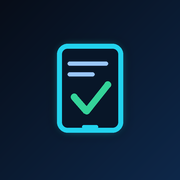
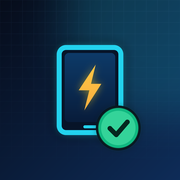
新 App 圖示、App 內安裝按鈕（v1.4）
Claude-Session: https://claude.ai/code/session_0117J48jJgWqVKsLGmjRoydJ

diff --git a/index.html b/index.html
@@ -51,13 +51,13 @@ header{
   border-bottom:1px solid var(--line);
   display:flex;align-items:center;gap:12px;
 }
-.logo{width:36px;height:36px;border-radius:10px;flex:none;
+.logo{width:40px;height:40px;border-radius:11px;flex:none;object-fit:cover;
   background:linear-gradient(135deg,#0e7490,#1d4ed8);display:grid;place-items:center;
   box-shadow:0 0 0 1px rgba(34,211,238,.35),0 0 18px rgba(34,211,238,.25)}
 .logo svg{width:22px;height:22px}
 .htitle{flex:1;min-width:0}
 .htitle h1{margin:0;font-size:19.5px;font-weight:700;letter-spacing:.02em}
-.htitle .sub{font-family:var(--mono);font-size:12.5px;color:var(--accent);letter-spacing:.14em;text-transform:uppercase}
+.htitle .sub{font-family:var(--mono);font-size:12.5px;color:var(--accent);letter-spacing:.08em;text-transform:uppercase;white-space:nowrap;overflow:hidden;text-overflow:ellipsis}
 .hclock{font-family:var(--mono);font-size:14px;color:var(--muted);text-align:right;line-height:1.3}
 
 main{position:relative;z-index:1;padding:14px 16px calc(var(--nav-h) + env(safe-area-inset-bottom) + 96px);max-width:720px;margin:0 auto}
@@ -249,6 +249,17 @@ nav button.on::before{content:"";position:absolute;top:0;width:28px;height:3px;b
 .grid2{display:grid;grid-template-columns:1fr 1fr;gap:10px}
 .note-s{font-size:14.5px;color:var(--dim);margin-top:8px;line-height:1.6}
 
+/* install card */
+.inst{display:none;align-items:center;gap:12px;padding:12px 14px;margin-bottom:12px;border-radius:var(--r);
+  border:1px solid rgba(34,211,238,.55);background:linear-gradient(135deg,rgba(8,145,178,.22),rgba(37,99,235,.18));box-shadow:0 0 18px rgba(34,211,238,.15)}
+.inst.show{display:flex}
+.inst img{width:46px;height:46px;border-radius:12px;flex:none}
+.inst .tx{flex:1;min-width:0}
+.inst .tx b{display:block;font-size:17px}
+.inst .tx span{font-size:14px;color:var(--muted)}
+.inst .x{background:none;border:0;color:var(--dim);font-size:22px;padding:0 2px;line-height:1}
+.howto{margin:0;padding-left:22px;font-size:15.5px;line-height:1.9;color:var(--text)}
+.howto b{color:var(--accent)}
 /* toast + dialog */
 .toast{position:fixed;left:50%;bottom:calc(var(--nav-h) + env(safe-area-inset-bottom) + 84px);transform:translate(-50%,20px);z-index:60;
   background:#e6f0ff;color:#071226;padding:10px 16px;border-radius:12px;font-size:16px;font-weight:600;opacity:0;pointer-events:none;transition:.2s;max-width:88vw;text-align:center;box-shadow:0 10px 30px rgba(0,0,0,.4)}
@@ -264,9 +275,7 @@ nav button.on::before{content:"";position:absolute;top:0;width:28px;height:3px;b
 <body>
 
 <header>
-  <div class="logo" aria-hidden="true">
-    <svg viewBox="0 0 24 24" fill="none" stroke="#e0fbff" stroke-width="1.8" stroke-linecap="round" stroke-linejoin="round"><rect x="5" y="2.5" width="14" height="19" rx="2.5"/><path d="M9 12.5l2.2 2.2L15.5 10"/><path d="M11 18.5h2"/></svg>
-  </div>
+  <img class="logo" src="icon-192.png" alt="" aria-hidden="true">
   <div class="htitle">
     <h1>資訊車平板檢修記錄</h1>
     <div class="sub">Tablet · Inspection · Log</div>
@@ -277,6 +286,7 @@ nav button.on::before{content:"";position:absolute;top:0;width:28px;height:3px;b
 <main>
   <!-- ===== 檢修 ===== -->
   <section class="view active" id="v-inspect">
+    <div class="inst" id="instCard"><img src="icon-192.png" alt=""><div class="tx"><b id="instT">安裝到手機主畫面</b><span id="instS">像一般 App 一樣開啟，沒網路也能用</span></div><button class="btn primary sm" id="instBtn">安裝</button><button class="x" id="instX" aria-label="隱藏">×</button></div>
     <div class="panel">
       <div class="panel-h">檢查設定</div>
       <label class="f" for="inDate">日期</label>
@@ -331,6 +341,7 @@ nav button.on::before{content:"";position:absolute;top:0;width:28px;height:3px;b
     <div class="panel">
       <div class="panel-h">資料管理</div>
       <div id="dataInfo"></div>
+      <button class="btn w100" id="btnInstall2" style="margin-top:12px">安裝到手機主畫面</button>
       <div class="grid2" style="margin-top:12px">
         <button class="btn" id="btnBackup">備份資料</button>
         <button class="btn" id="btnRestore">還原備份</button>
@@ -339,7 +350,7 @@ nav button.on::before{content:"";position:absolute;top:0;width:28px;height:3px;b
       <button class="btn danger w100" id="btnWipe" style="margin-top:10px">清除全部資料</button>
       <div class="note-s">資料只存在這支手機的這個 App 裡。建議每學期按「備份資料」存一份到雲端硬碟；換手機時用「還原備份」匯回。</div>
     </div>
-    <div style="text-align:center;font-family:var(--mono);font-size:12.5px;color:var(--dim);letter-spacing:.1em">TABLET·CHECK v1.3</div>
+    <div style="text-align:center;font-family:var(--mono);font-size:12.5px;color:var(--dim);letter-spacing:.1em">TABLET·CHECK v1.4</div>
   </section>
 </main>
 
@@ -416,11 +427,12 @@ const findRec = id => records.find(r=>r.id===id);
 /* ================= toast / dialog ================= */
 let toastT;
 function toast(msg){ const t=$("#toast"); t.textContent=msg; t.classList.add("show"); clearTimeout(toastT); toastT=setTimeout(()=>t.classList.remove("show"),2200); }
-function confirmBox(title,msg,yes="確定",danger=false){
+function confirmBox(title,msg,yes="確定",danger=false,noCancel=false){
   return new Promise(res=>{
     $("#dlgT").textContent=title; $("#dlgP").textContent=msg;
     const y=$("#dlgYes"), n=$("#dlgNo");
     y.textContent=yes; y.className = "btn " + (danger?"danger":"primary");
+    n.style.display = noCancel ? "none" : "";
     $("#dlg").classList.add("show");
     const done=v=>{ $("#dlg").classList.remove("show"); y.onclick=n.onclick=null; res(v); };
     y.onclick=()=>done(true); n.onclick=()=>done(false);
@@ -915,6 +927,48 @@ function go(v){
 }
 document.querySelector("nav").addEventListener("click",e=>{ const b=e.target.closest("button"); if(b){ buzz(); go(b.dataset.v); } });
 window.addEventListener("beforeunload",e=>{ if(ed.dirty){ saveDraft(); } });
+
+/* ================= install to home screen ================= */
+let deferredPrompt=null;
+const isStandalone=()=>matchMedia("(display-mode: standalone)").matches||navigator.standalone===true;
+const ua=navigator.userAgent;
+const inAppBrowser=/Line\/|FBAN|FBAV|Instagram|; wv\)|MicroMessenger/i.test(ua);
+const isIOS=/iPhone|iPad|iPod/.test(ua);
+function showInstallCard(force){
+  const c=$("#instCard");
+  $("#btnInstall2").style.display = isStandalone() ? "none" : "";
+  if(isStandalone()){ c.classList.remove("show"); return; }
+  let hidden=false; try{ hidden=localStorage.getItem("tic.instHide")==="1"; }catch(e){}
+  if(hidden && !force) return;
+  if(inAppBrowser){ $("#instT").textContent="請改用 Chrome 開啟"; $("#instS").textContent="這個瀏覽器無法安裝 App"; $("#instBtn").textContent="複製網址"; }
+  else if(deferredPrompt){ $("#instT").textContent="安裝到手機主畫面"; $("#instS").textContent="像一般 App 一樣開啟，沒網路也能用"; $("#instBtn").textContent="安裝"; }
+  else { $("#instT").textContent="安裝到手機主畫面"; $("#instS").textContent="按「怎麼裝」看步驟"; $("#instBtn").textContent="怎麼裝"; }
+  c.classList.add("show");
+}
+async function doInstall(){
+  if(inAppBrowser){
+    try{ await navigator.clipboard.writeText(location.href.split("?")[0]); toast("已複製網址，請貼到 Chrome 開啟"); }
+    catch(e){ toast(location.href.split("?")[0]); }
+    return;
+  }
+  if(deferredPrompt){
+    deferredPrompt.prompt();
+    const r=await deferredPrompt.userChoice; deferredPrompt=null;
+    if(r.outcome==="accepted"){ $("#instCard").classList.remove("show"); toast("安裝中，完成後主畫面會出現「平板檢修」"); }
+    else showInstallCard(true);
+    return;
+  }
+  const steps = isIOS
+    ? "1. 用 Safari 開啟這個網頁\n2. 按下方的「分享」按鈕\n3. 選「加入主畫面」→「新增」"
+    : "1. 確認是用 Chrome 開啟\n2. 按右上角「⋮」選單\n3. 選「安裝應用程式」或「加到主畫面」\n4. 按「安裝」";
+  await confirmBox("安裝到手機主畫面",steps,"知道了",false,true);
+}
+window.addEventListener("beforeinstallprompt",e=>{ e.preventDefault(); deferredPrompt=e; showInstallCard(); });
+window.addEventListener("appinstalled",()=>{ deferredPrompt=null; $("#instCard").classList.remove("show"); $("#btnInstall2").style.display="none"; toast("✓ 已安裝到主畫面"); });
+$("#instBtn").addEventListener("click",doInstall);
+$("#btnInstall2").addEventListener("click",doInstall);
+$("#instX").addEventListener("click",()=>{ $("#instCard").classList.remove("show"); try{ localStorage.setItem("tic.instHide","1"); }catch(e){} toast("之後可到「匯出」頁最下方安裝"); });
+setTimeout(()=>showInstallCard(),1500);
 
 /* ================= init ================= */
 renderInspect(); updateBadge();

diff --git a/sw.js b/sw.js
@@ -1,5 +1,5 @@
 // 平板檢修記錄 — service worker（離線可用）
-const CACHE = "tablet-inspection-v1.3";
+const CACHE = "tablet-inspection-v1.4";
 const ASSETS = [
   "./",
   "./index.html",
